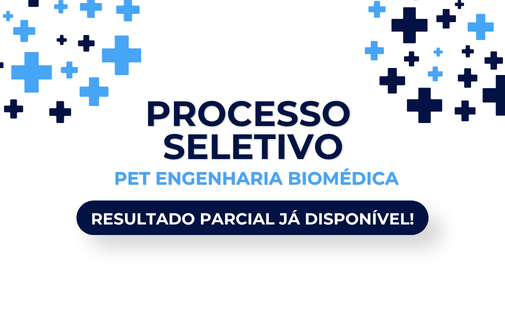
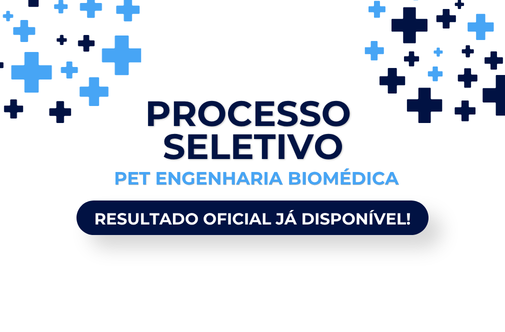
Foot

Changed region(s): [[0.1782, 0.6325, 0.8317, 0.6928]]

diff --git a/index.html b/index.html
@@ -162,7 +162,7 @@
                     <a href="https://drive.google.com/drive/folders/1U6OAL4fmrKypMNE6vVtucI9T5EeDB62M?usp=sharing" class="news-btn">Ver resultado</a>
                 </div>
                 <div class="news-image">
-                    <img src="images/Homologacao.png" alt="Resultado">
+                    <img src="images/homologacao.png" alt="Resultado">
                 </div>
             </div>
         </div>
